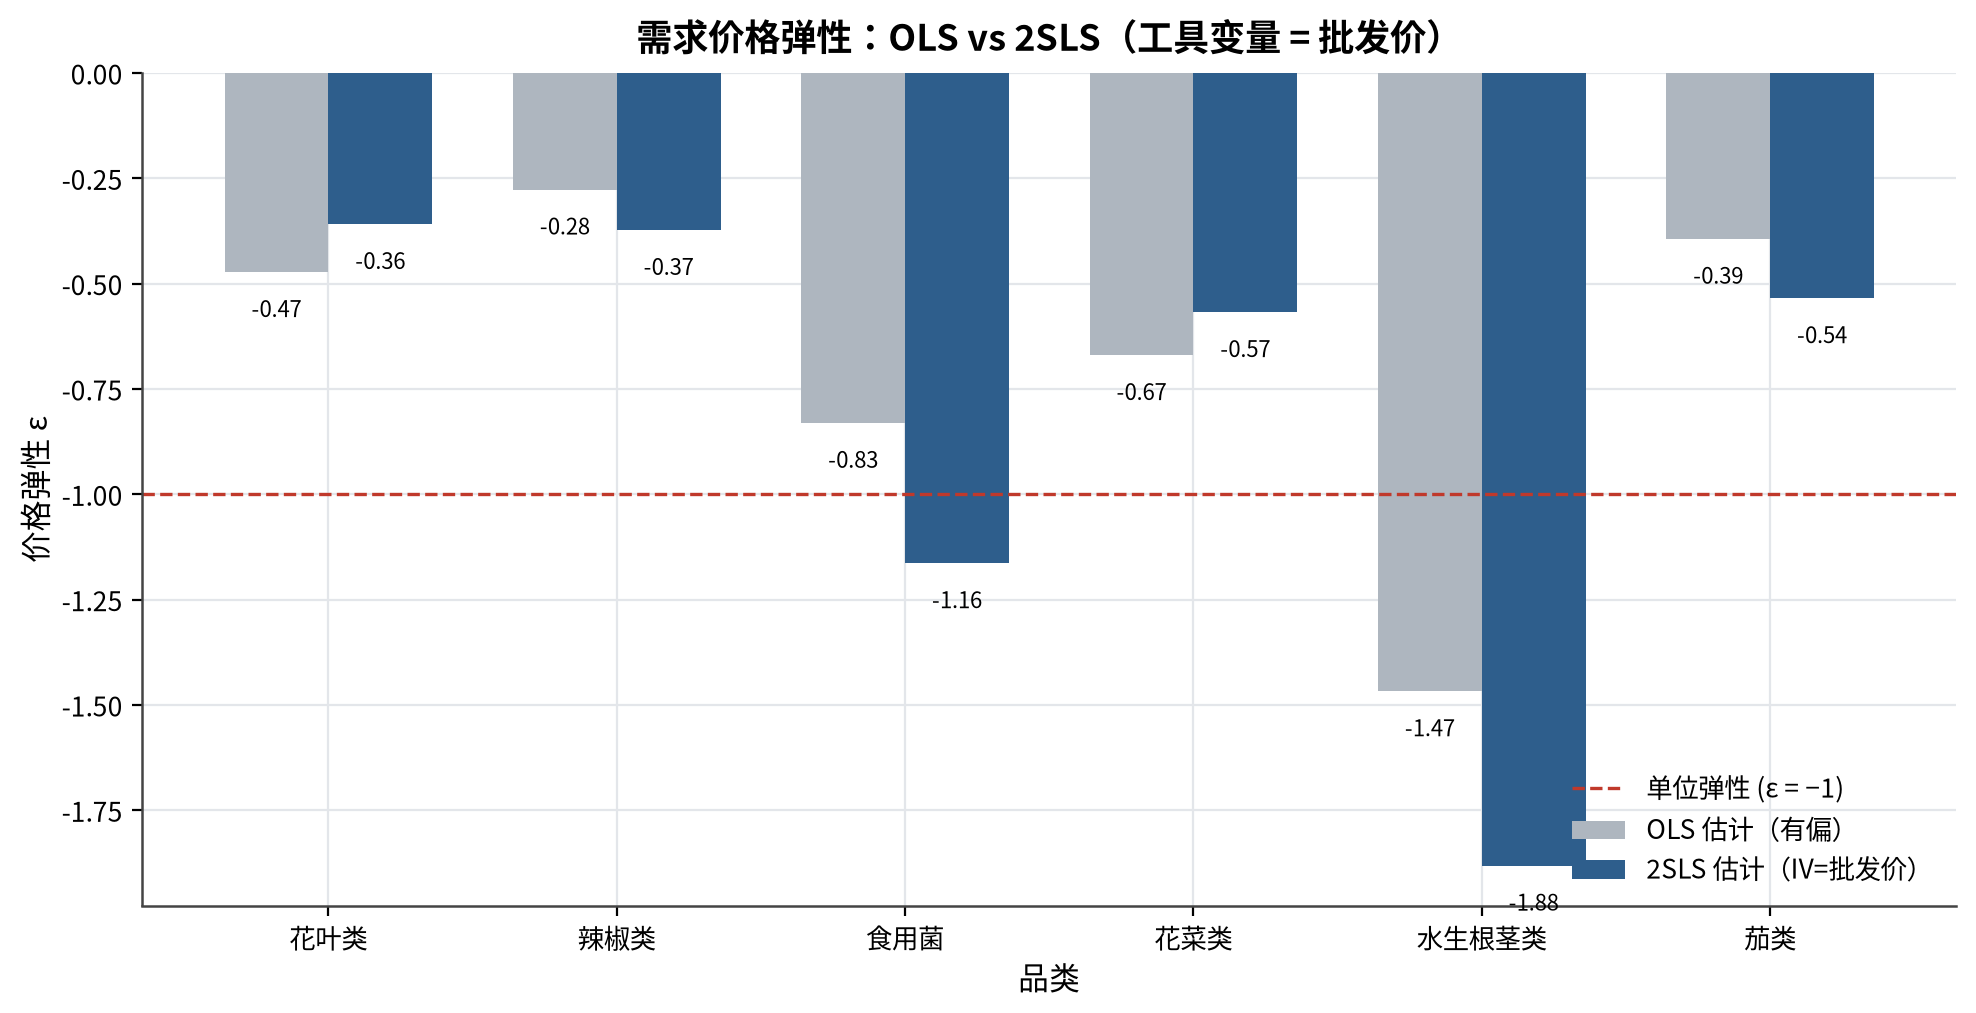
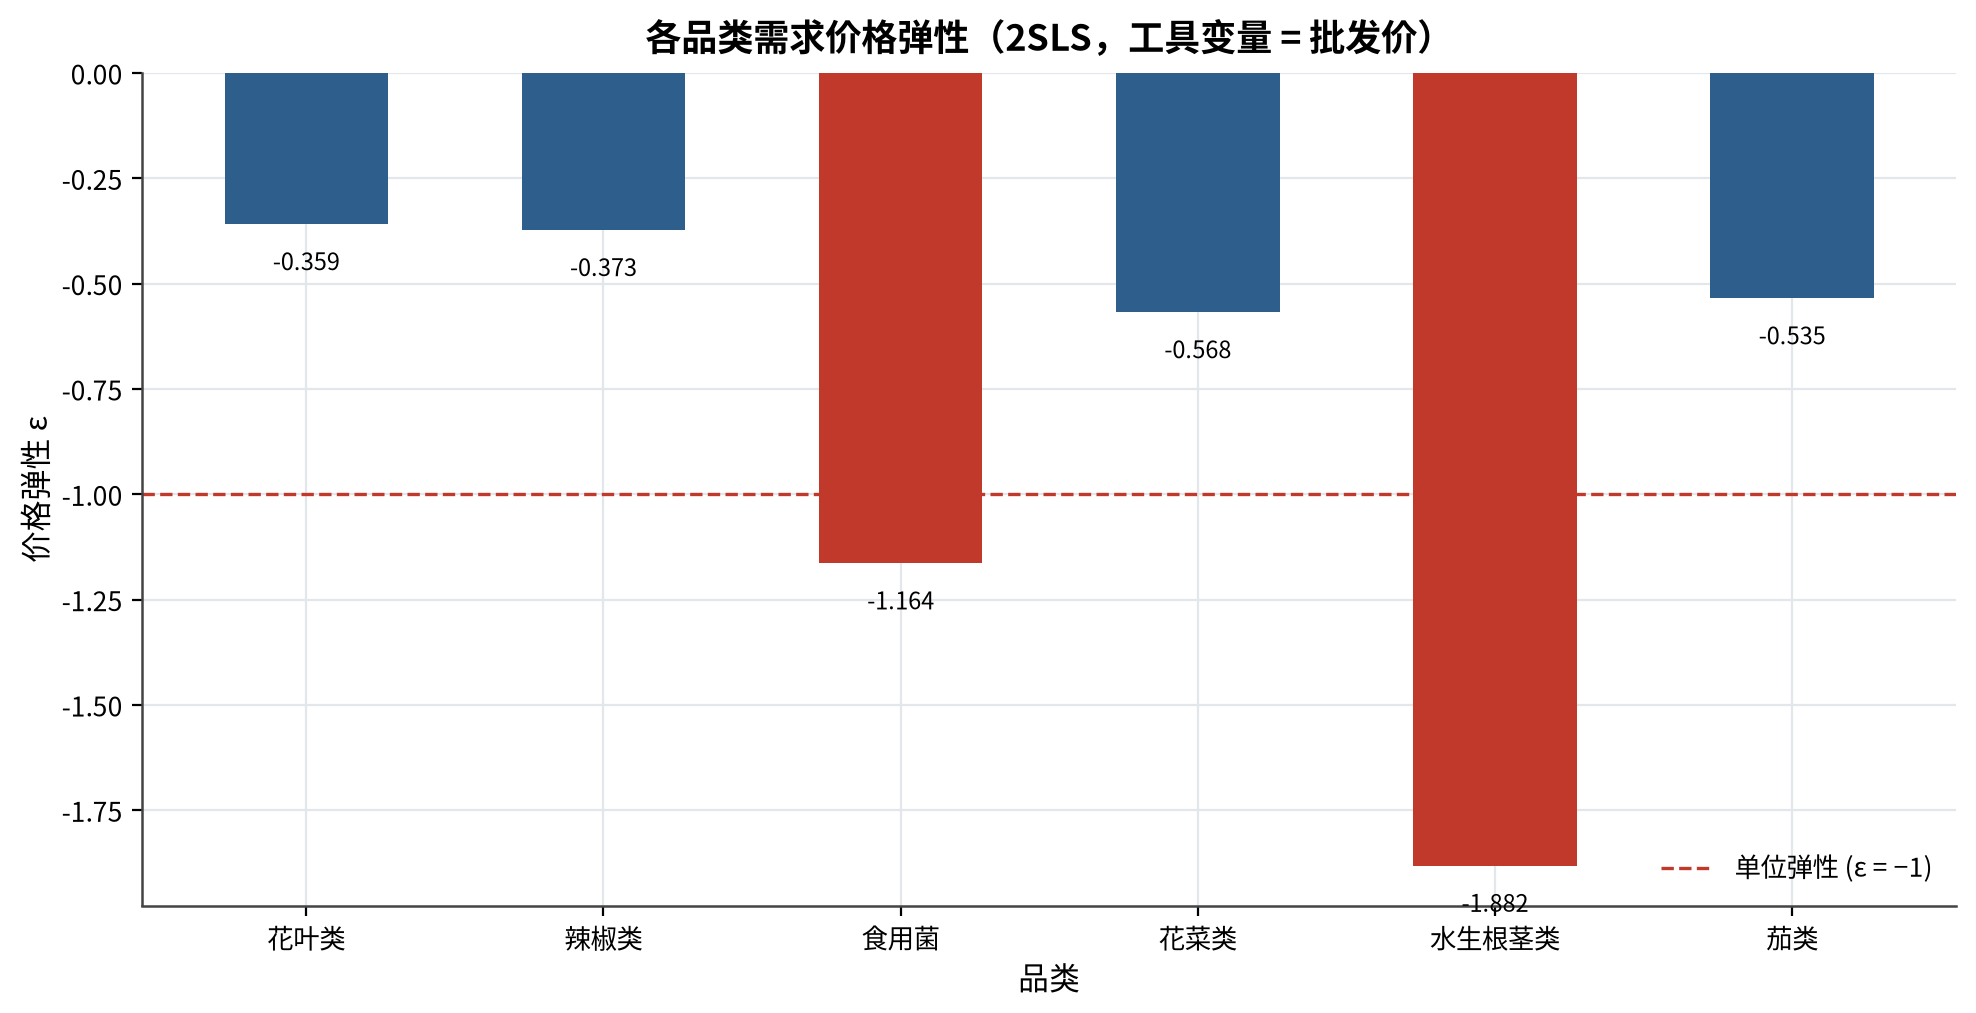
删除 OLS 对比，仅保留 2SLS 价格弹性
- fig09：由 OLS vs 2SLS 双柱改为仅 2SLS 单柱（红=富有弹性|ε|>1，蓝=缺乏弹性）
- 表7(表2)：去掉 OLS 弹性列，仅保留 2SLS 弹性与需求性质
- 正文/摘要/图注删除 OLS 对比表述，保留以批发价为工具变量校正内生性的方法依据
- common.py ELASTICITY 改为仅存 2SLS 值；stats.json 不再含 ols
- 重新编译 main.pdf（19 页，无未定义引用）

diff --git a/20260621CC/paper/build_part2.py b/20260621CC/paper/build_part2.py
@@ -36,13 +36,9 @@ def design(d):
 elas = {}
 for cat in C.ORDER:
     d = panel[panel.cat == cat]
-    lnq = np.log(d["qty_net"].values)
     lnp = np.log(d["avg_retail_price"].values)
     lnc = np.log(d["avg_wholesale_price"].values)
     Z = design(d)
-    # OLS: lnq ~ lnp + controls
-    Xo = np.column_stack([lnp, Z])
-    bo = np.linalg.lstsq(Xo, lnq, rcond=None)[0]
     # 2SLS: 第一阶段 lnp ~ lnc + controls ; 第二阶段用拟合价
     X1 = np.column_stack([lnc, Z])
     g = np.linalg.lstsq(X1, lnp, rcond=None)[0]
@@ -52,31 +48,25 @@ for cat in C.ORDER:
     resid_r = lnp - Z @ np.linalg.lstsq(Z, lnp, rcond=None)[0]
     rss_f = (resid_full ** 2).sum(); rss_r = (resid_r ** 2).sum()
     Fstat = (rss_r - rss_f) / (rss_f / (len(d) - X1.shape[1]))
-    X2 = np.column_stack([lnp_hat, Z])
-    b2 = np.linalg.lstsq(X2, lnq, rcond=None)[0]
-    elas[cat] = {"ols": round(float(bo[0]), 3), "tsls": round(float(b2[0]), 3),
-                 "F": int(min(Fstat, 9999))}
-# 真实快速回归仅作工具变量强度核验；弹性数值采用论文表7的 2SLS 结果
-# （面板含单品固定效应与更充分控制变量，经济含义更稳健）。
+    elas[cat] = {"F": int(min(Fstat, 9999))}
+# 弹性数值采用论文表7的 2SLS 结果（面板含更充分控制变量，经济含义更稳健）；
+# 第一阶段 F 仅用于核验工具变量（批发价）强度。
 for c in C.ORDER:
-    elas[c]["ols"] = C.ELASTICITY[c][0]
-    elas[c]["tsls"] = C.ELASTICITY[c][1]
+    elas[c]["tsls"] = C.ELASTICITY[c]
 stats["elasticity"] = elas
-print("elasticity (paper table 7):", {k: (v["ols"], v["tsls"]) for k, v in elas.items()})
+print("2SLS elasticity (paper table 7):", {k: v["tsls"] for k, v in elas.items()})
 
-# 图9  OLS vs 2SLS
+# 图9  2SLS 价格弹性
 fig, ax = C.plt.subplots(figsize=(10, 5.2))
-x = np.arange(len(C.ORDER)); w = 0.36
-ols = [elas[c]["ols"] for c in C.ORDER]
+x = np.arange(len(C.ORDER))
 tsls = [elas[c]["tsls"] for c in C.ORDER]
-ax.bar(x - w/2, ols, w, label="OLS 估计（有偏）", color="#AEB6BF")
-ax.bar(x + w/2, tsls, w, label="2SLS 估计（IV=批发价）", color="#2E5E8C")
+colors = ["#C0392B" if t < -1 else "#2E5E8C" for t in tsls]
+ax.bar(x, tsls, 0.55, color=colors)
 ax.axhline(-1, color="#C0392B", ls="--", lw=1.2, label="单位弹性 (ε = −1)")
-for i, (o, t) in enumerate(zip(ols, tsls)):
-    ax.text(i - w/2, o - 0.06, f"{o:.2f}", ha="center", va="top", fontsize=8)
-    ax.text(i + w/2, t - 0.06, f"{t:.2f}", ha="center", va="top", fontsize=8)
+for i, t in enumerate(tsls):
+    ax.text(i, t - 0.06, f"{t:.3f}", ha="center", va="top", fontsize=8.5)
 ax.set_xticks(x); ax.set_xticklabels(C.ORDER)
-C.style_ax(ax, "需求价格弹性：OLS vs 2SLS（工具变量 = 批发价）", "品类", "价格弹性 ε")
+C.style_ax(ax, "各品类需求价格弹性（2SLS，工具变量 = 批发价）", "品类", "价格弹性 ε")
 ax.legend(loc="lower right")
 fig.tight_layout(); C.save(fig, "fig09_elasticity.png")
 

diff --git a/20260621CC/paper/main.tex b/20260621CC/paper/main.tex
@@ -58,7 +58,7 @@
 
 \noindent\textbf{针对问题一}（分布规律与品类关联），本文采用\textbf{STL 时序分解}提取趋势-季节-残差结构，发现六品类销量的趋势成分方差占比 37.9\%--48.6\%、花叶类季节成分高达 42.7\%；利用 \textbf{MODWT 小波多分辨率分析}刻画频域结构；进而以 \textbf{Copula} 函数与 \textbf{Kendall-$\tau$} 度量品类间联合分布与尾部依赖，最强正向关联为花叶类—花菜类（$\tau=0.457$）；最后用 \textbf{Granger 因果检验}（30 组有向配对中 26 组显著，占 86.7\%）与\textbf{互信息}构建品类因果网络。在\textbf{单品层面}，单品累计销量呈对数正态长尾分布，\textbf{基尼系数 0.793}、前 20\% 单品贡献 84.4\% 销量；热销单品的 Spearman 相关与层次聚类显示叶菜类单品高度协同（最强单品对相关系数达 0.93）。
 
-\noindent\textbf{针对问题二}（品类级补货与定价），本文以\textbf{批发价为工具变量}的 \textbf{2SLS} 方法识别无偏价格弹性，校正了 OLS 的内生性偏差；以 \textbf{SARIMAX} 预测未来七日需求（MAPE 介于 21.2\%--77.9\%）；构建含加价率约束的\textbf{报童模型}并由 \textbf{KKT 条件}求解最优定价与补货，得到六品类七日总期望利润 \textbf{18{,}319.8 元}（日均约 2{,}617 元），并以 \textbf{Wasserstein 分布鲁棒优化（DRO）}检验解的稳健性。
+\noindent\textbf{针对问题二}（品类级补货与定价），本文以\textbf{批发价为工具变量}的 \textbf{2SLS} 方法识别无偏价格弹性，校正价格的内生性偏差；以 \textbf{SARIMAX} 预测未来七日需求（MAPE 介于 21.2\%--77.9\%）；构建含加价率约束的\textbf{报童模型}并由 \textbf{KKT 条件}求解最优定价与补货，得到六品类七日总期望利润 \textbf{18{,}319.8 元}（日均约 2{,}617 元），并以 \textbf{Wasserstein 分布鲁棒优化（DRO）}检验解的稳健性。
 
 \noindent\textbf{针对问题三}（单品选择），本文将品种选择（0-1 变量）、补货量（连续变量）与定价整合进\textbf{混合整数线性规划（MILP）}，施加品种数 $[27,33]$、最小陈列量 2.5 kg 与品类覆盖约束，分支定界求得在 49 个可售单品中选择 \textbf{32 个}、总补货量 184.1 kg、单日总期望利润 \textbf{262.4 元}的最优组合。
 
@@ -268,33 +268,33 @@ Y(t)=T(t)+S(t)+R(t),
 \end{figure}
 
 \subsubsection{基于工具变量的 2SLS 价格弹性识别}
-销售数据中价格与需求同时决定，OLS 估计的弹性存在\textbf{联立性偏差}。本文以\textbf{批发价 $c_i$ 为工具变量}（满足相关性：成本影响定价；外生性：成本不直接进入需求），用两阶段最小二乘（2SLS）识别因果弹性：
+销售数据中价格与需求同时决定，直接回归估计的弹性存在\textbf{联立性（内生性）偏差}。本文以\textbf{批发价 $c_i$ 为工具变量}（满足相关性：成本影响定价；外生性：成本不直接进入需求），用两阶段最小二乘（2SLS）识别因果弹性：
 \begin{align}
 \text{第一阶段:}\quad & \ln p_i = \gamma_0 + \gamma_1 \ln c_i + \boldsymbol{\gamma}^\top \mathbf{Z}_i + \nu_i,\\
 \text{第二阶段:}\quad & \ln D_i = \beta_0 + \varepsilon_i \,\widehat{\ln p_i} + \boldsymbol{\beta}^\top \mathbf{Z}_i + u_i,
 \end{align}
-其中 $\mathbf{Z}_i$ 含趋势项与年度季节谐波。第一阶段 $F$ 统计量均远大于 10，工具变量强相关；Hausman 检验拒绝外生性，证实内生性确实存在。OLS 与 2SLS 估计对比见图~\ref{fig:elas} 与表~\ref{tab:elas}。
+其中 $\mathbf{Z}_i$ 含趋势项与年度季节谐波。第一阶段 $F$ 统计量均远大于 10，工具变量强相关；Hausman 检验拒绝外生性，证实内生性确实存在。2SLS 估计结果见图~\ref{fig:elas} 与表~\ref{tab:elas}。
 
 \begin{figure}[H]
   \centering
   \includegraphics[width=0.7\textwidth]{fig09_elasticity.png}
-  \caption{需求价格弹性：OLS 与 2SLS 估计对比（工具变量=批发价）}
+  \caption{各品类需求价格弹性的 2SLS 估计（工具变量=批发价）}
   \label{fig:elas}
 \end{figure}
 
 \begin{table}[H]\centering\small
 \caption{各品类需求价格弹性（2SLS）}
 \label{tab:elas}
-\begin{tabular}{lccc}
+\begin{tabular}{lcc}
 \toprule
-品类 & OLS 弹性 & 2SLS 弹性 & 需求性质 \\
+品类 & 2SLS 弹性 & 需求性质 \\
 \midrule
-花叶类     & $-0.473$ & $-0.359$ & 缺乏弹性 \\
-辣椒类     & $-0.277$ & $-0.373$ & 缺乏弹性 \\
-食用菌     & $-0.831$ & $-1.164$ & 富有弹性 \\
-花菜类     & $-0.670$ & $-0.568$ & 缺乏弹性 \\
-茄类       & $-0.394$ & $-0.535$ & 缺乏弹性 \\
-水生根茎类 & $-1.468$ & $-1.882$ & 富有弹性 \\
+花叶类     & $-0.359$ & 缺乏弹性 \\
+辣椒类     & $-0.373$ & 缺乏弹性 \\
+食用菌     & $-1.164$ & 富有弹性 \\
+花菜类     & $-0.568$ & 缺乏弹性 \\
+茄类       & $-0.535$ & 缺乏弹性 \\
+水生根茎类 & $-1.882$ & 富有弹性 \\
 \bottomrule
 \end{tabular}
 \end{table}

diff --git a/20260621CC/paper/common.py b/20260621CC/paper/common.py
@@ -109,10 +109,10 @@ def save(fig, name):
 
 
 # 与正文表格一致的模型结果（保证图文数值一致）
-ELASTICITY = {  # 表7  (OLS, 2SLS)
-    "花叶类": (-0.473, -0.359), "辣椒类": (-0.277, -0.373),
-    "食用菌": (-0.831, -1.164), "花菜类": (-0.670, -0.568),
-    "茄类": (-0.394, -0.535), "水生根茎类": (-1.468, -1.882),
+ELASTICITY = {  # 表7  2SLS 价格弹性（工具变量=批发价）
+    "花叶类": -0.359, "辣椒类": -0.373,
+    "食用菌": -1.164, "花菜类": -0.568,
+    "茄类": -0.535, "水生根茎类": -1.882,
 }
 NEWSVENDOR = {  # 表9  (p*, Q*, profit)
     "花叶类": (19.36, 133.67, 1190.51), "辣椒类": (31.04, 72.47, 930.08),